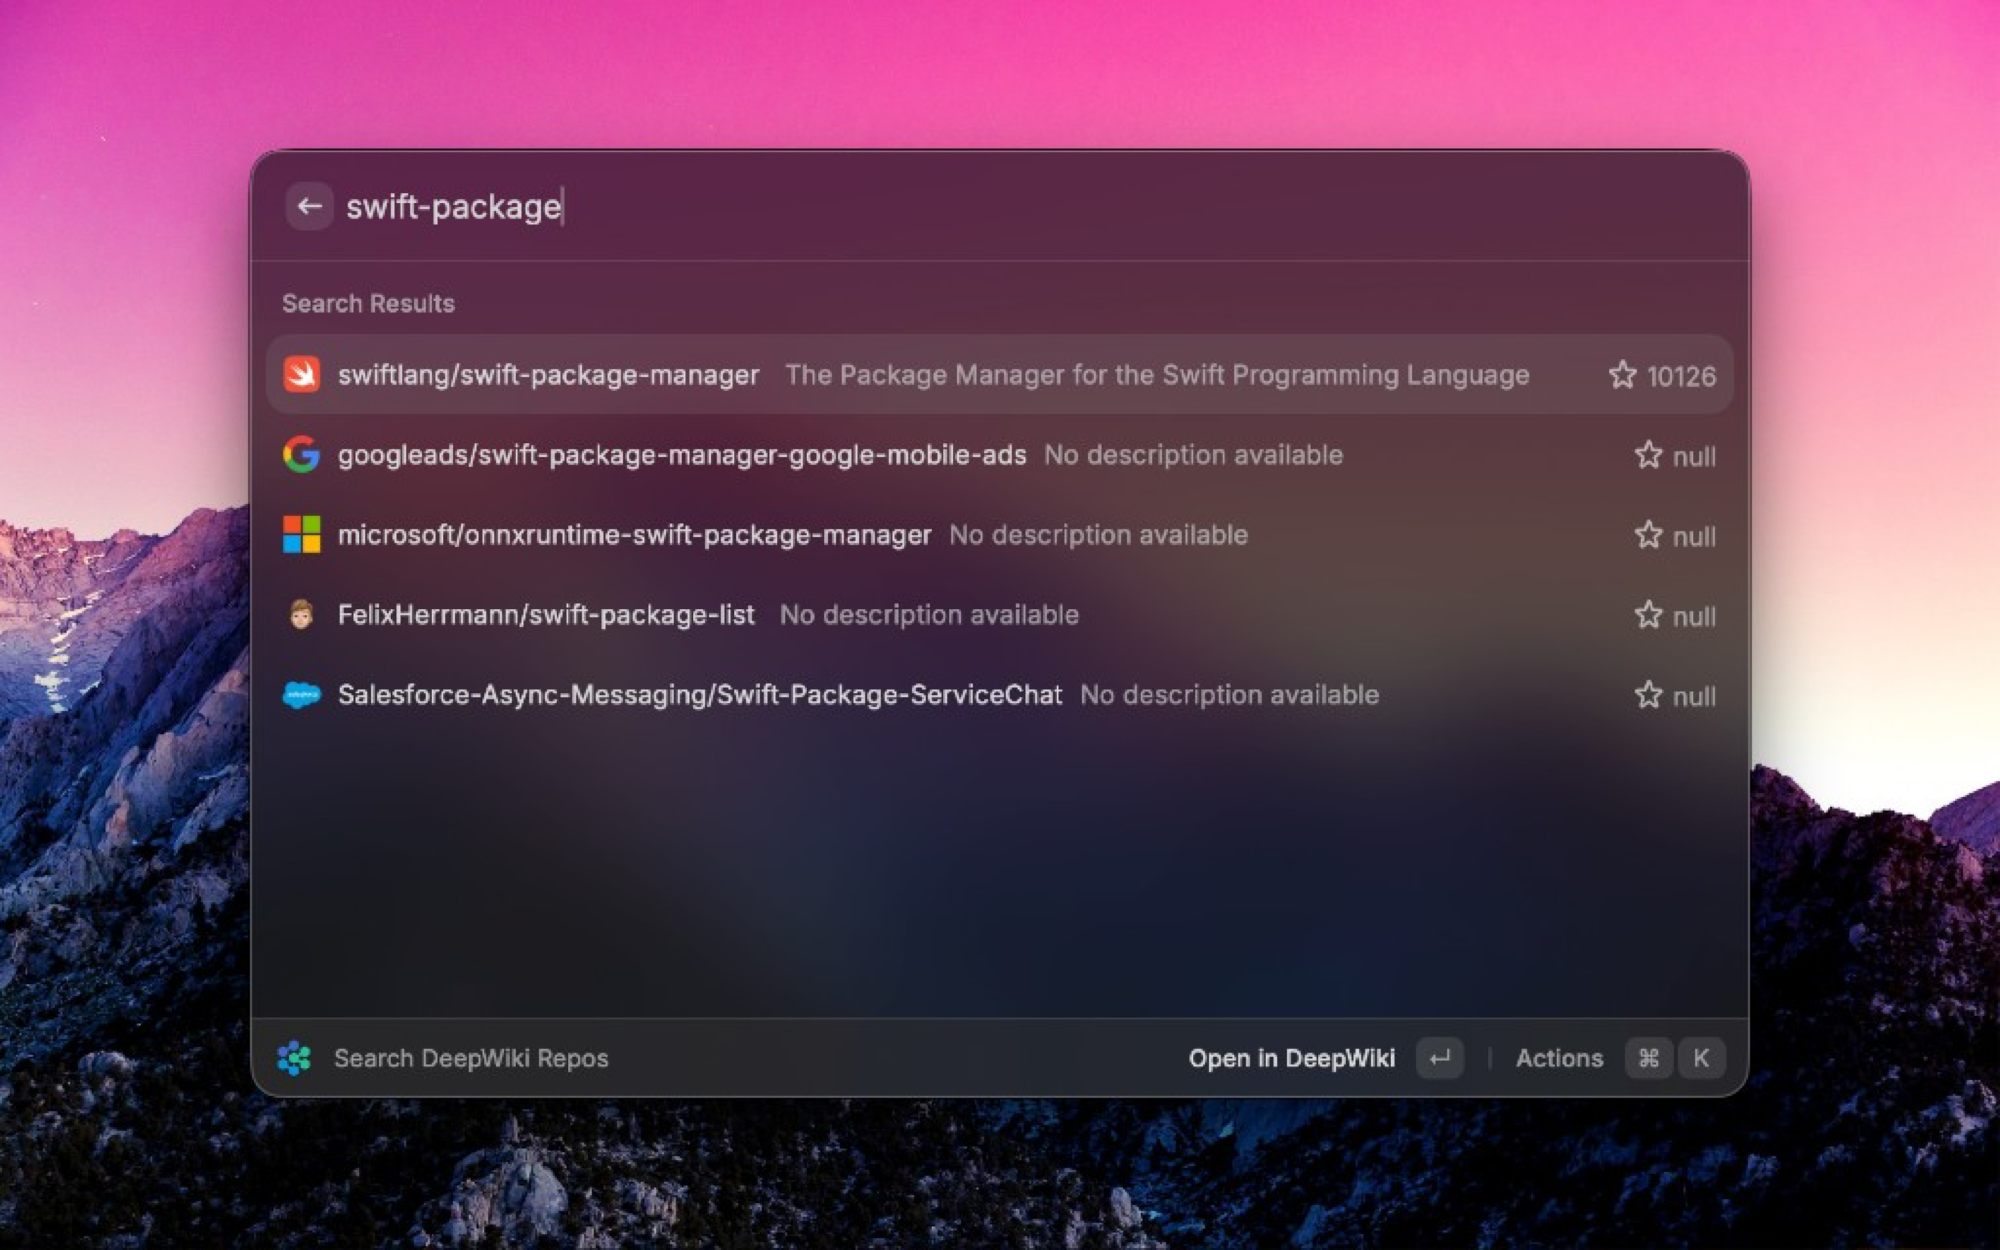
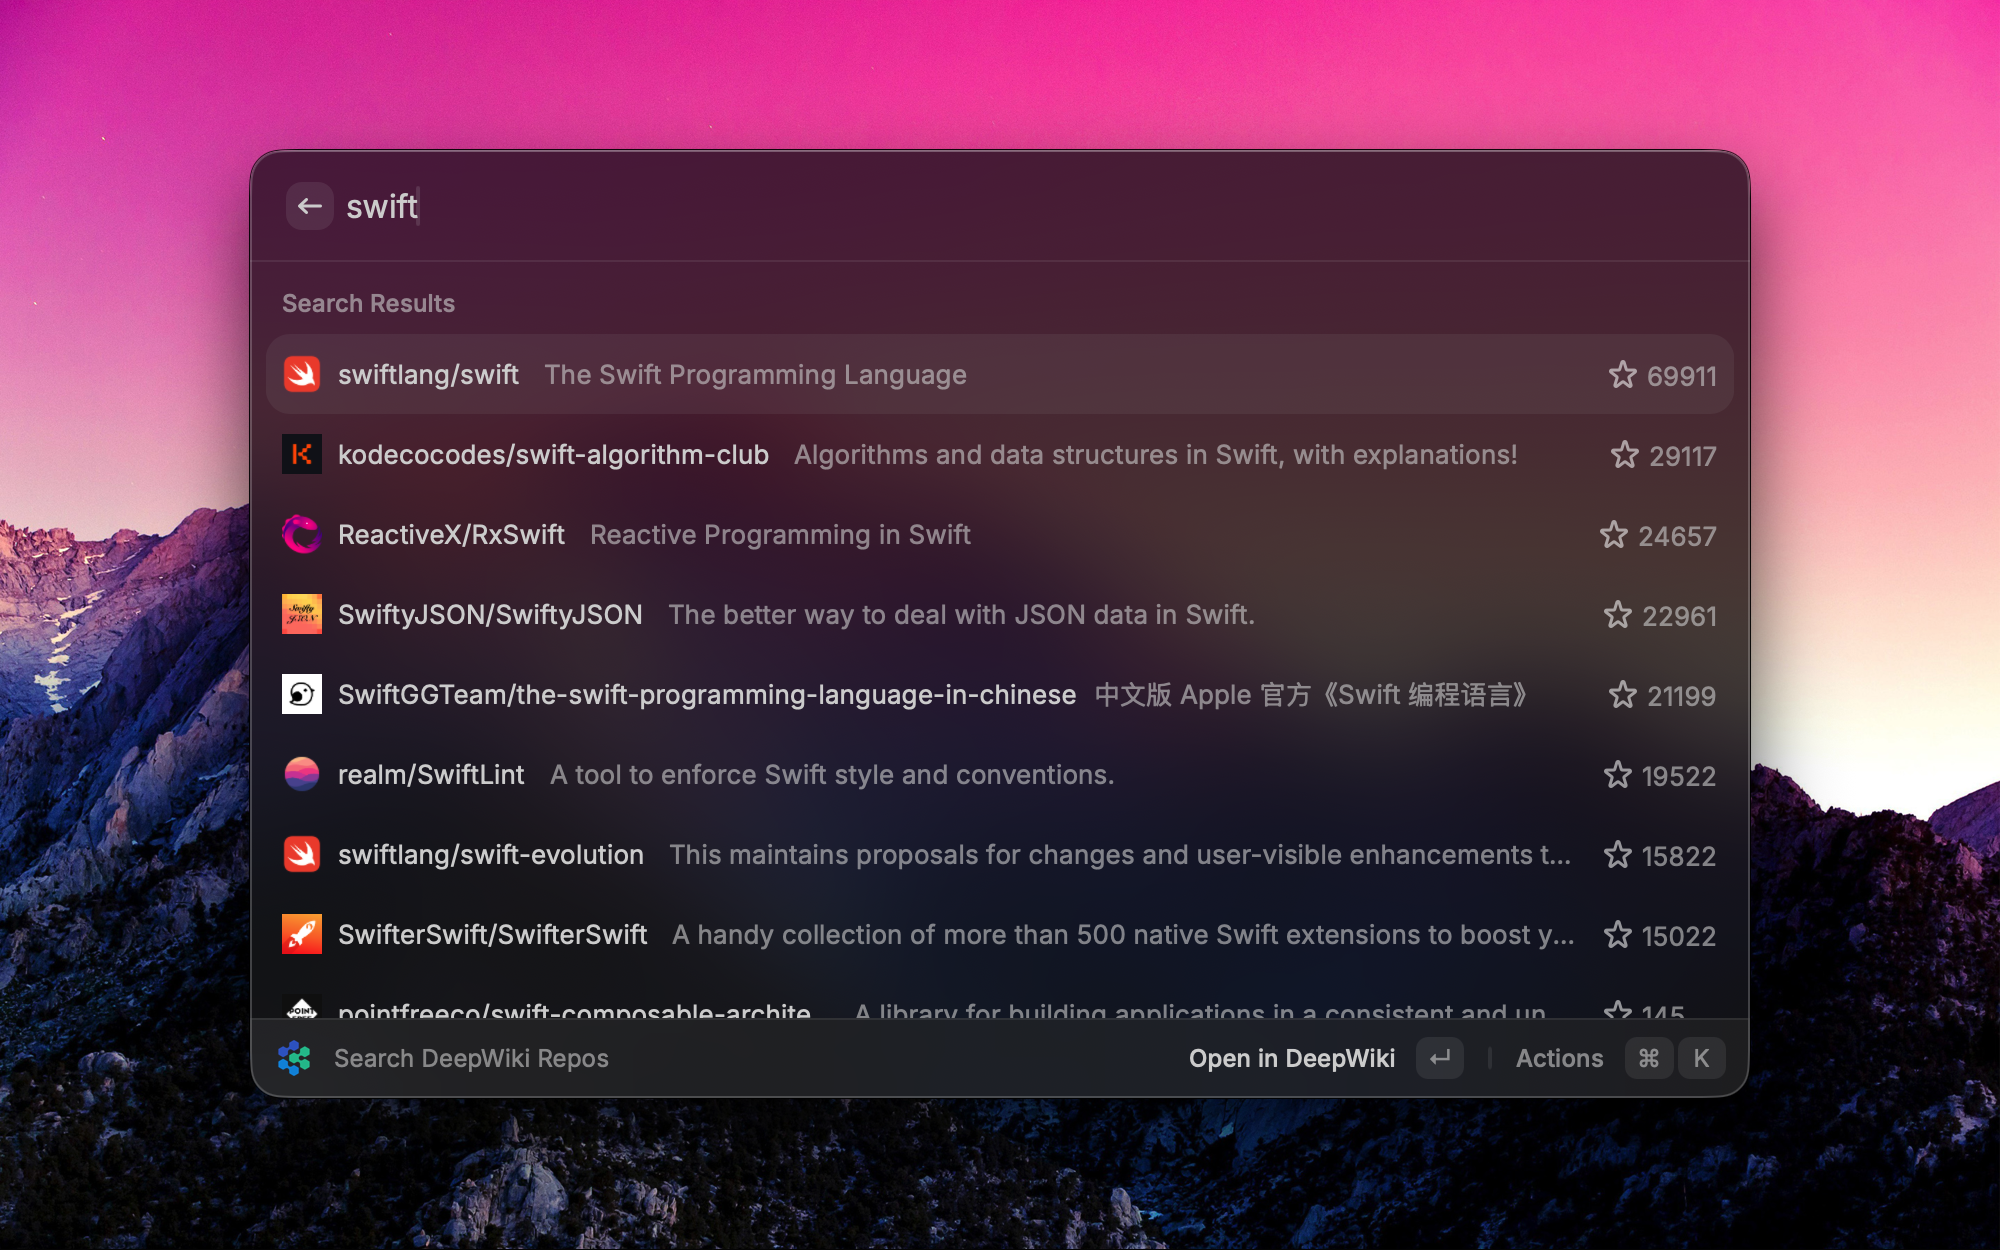
Hide missing stars/descriptions and refresh search screenshot.

diff --git a/src/search-deepwiki.tsx b/src/search-deepwiki.tsx
@@ -69,11 +69,11 @@ export default function Command() {
       const parsedResults: RepoResult[] = apiResults.map((item) => {
         const orgRepo = item.repo_name
         const [owner, repo] = orgRepo.split("/")
-        const stars = item.stargazers_count !== undefined ? String(item.stargazers_count) : ""
+        const stars = item.stargazers_count != null ? String(item.stargazers_count) : ""
         return {
           id: orgRepo,
           orgRepo,
-          description: item.description || "No description available",
+          description: item.description || "",
           stars,
           deepWikiUrl: owner && repo ? `https://deepwiki.com/${owner}/${repo}` : `https://deepwiki.com/${orgRepo}`,
           githubUrl: `https://github.com/${orgRepo}`,
@@ -134,13 +134,17 @@ function getRepoIcon(orgRepo: string) {
   return owner ? `https://github.com/${owner}.png` : Icon.Code
 }
 
+function hasStars(stars: string) {
+  return stars !== "" && stars !== "null"
+}
+
 function RepoListItem({ repo, onOpen }: { repo: RepoResult; onOpen: (repo: RepoResult) => void }) {
   return (
     <List.Item
       icon={getRepoIcon(repo.orgRepo)}
       title={repo.orgRepo}
-      subtitle={repo.description}
-      accessories={repo.stars ? [{ text: repo.stars, icon: Icon.Star }] : []}
+      subtitle={repo.description || undefined}
+      accessories={hasStars(repo.stars) ? [{ text: repo.stars, icon: Icon.Star }] : []}
       actions={
         <ActionPanel>
           <Action.OpenInBrowser title="Open in DeepWiki" url={repo.deepWikiUrl} onOpen={() => onOpen(repo)} />
